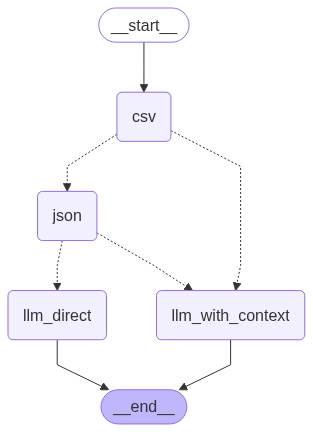
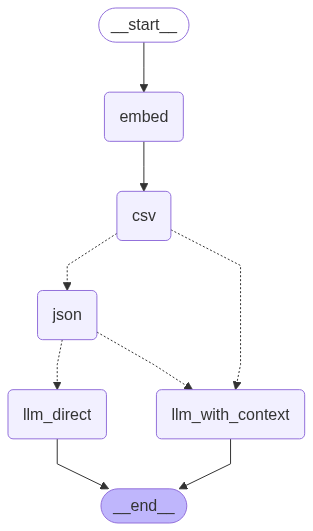
optimizing

diff --git a/frontend/src/services/api.js b/frontend/src/services/api.js
@@ -43,8 +43,8 @@
 import axios from "axios";
 
 const API = axios.create({
-  baseURL: "https://MustafaNoor-Medical-backend-api.hf.space",
-  // baseURL: "http://localhost:8000", 
+  // baseURL: "https://MustafaNoor-Medical-backend-api.hf.space",
+  baseURL: "http://localhost:8000", 
 });
 
 // Attach Authorization token

diff --git a/backend/app/services/csv_search.py b/backend/app/services/csv_search.py
@@ -6,6 +6,8 @@ from sklearn.metrics.pairwise import cosine_similarity
 from langchain.schema import Document
 from qdrant_client import QdrantClient
 import google.generativeai as genai
+import logging
+logger = logging.getLogger()
 
 # ---- PATH SETUP ---- #
 sys.path.append(os.path.abspath(os.path.join(os.path.dirname(__file__), "..", "..")))
@@ -23,14 +25,14 @@ qdrant_client = QdrantClient(
 )
 
 
-def embed_with_gemini(text: str) -> List[float]:
-    """Generate Gemini embeddings for a query."""
-    response = genai.embed_content(
-        model=EMBEDDING_MODEL,
-        content=text,
-        task_type="retrieval_query"
-    )
-    return response["embedding"]
+# def embed_with_gemini(text: str) -> List[float]:
+#     """Generate Gemini embeddings for a query."""
+#     response = genai.embed_content(
+#         model=EMBEDDING_MODEL,
+#         content=text,
+#         task_type="retrieval_query"
+#     )
+#     return response["embedding"]
 
 
 def list_available_csv_topics() -> List[str]:
@@ -39,7 +41,7 @@ def list_available_csv_topics() -> List[str]:
     return [col.name for col in collections if col.name.endswith(QDRANT_COLLECTION_SUFFIX)]
 
 
-def search_csv(topic: str, query: str, k: int = 3) -> Dict[str, Any]:
+def search_csv(topic: str, query: str, query_vector: np.ndarray, k: int = 3) -> Dict[str, Any]:
     topic = topic.strip() + "_csv"
     query_normalized = query.strip().lower()
 
@@ -47,16 +49,26 @@ def search_csv(topic: str, query: str, k: int = 3) -> Dict[str, Any]:
         print(f"\n🔍 [QDRANT CSV Search] Query: {query}")
         print(f"📘 Topic: {topic}")
 
-        # Embed query
-        query_vector = np.array(embed_with_gemini(query)).reshape(1, -1)
+        logger.info("query vector start")
+        # # Embed query
+        # query_vector = np.array(embed_with_gemini(query)).reshape(1, -1)
 
+        logger.info("query vector end------")
         # Fetch points from Qdrant
-        points = qdrant_client.scroll(
+        # points = qdrant_client.scroll(
+        #     collection_name=topic,
+        #     with_vectors=True,
+        #     with_payload=True,
+        #     limit=500
+        # )[0]
+
+        points = qdrant_client.search(
             collection_name=topic,
+            query_vector=query_vector[0],
+            limit=20,
             with_vectors=True,
-            with_payload=True,
-            limit=500
-        )[0]
+            with_payload=True
+        )
 
         vectors, payloads = [], []
         for p in points:
@@ -68,9 +80,12 @@ def search_csv(topic: str, query: str, k: int = 3) -> Dict[str, Any]:
             print("⚠ No vectors found.")
             return {"score": 0.0, "docs": []}
 
+        
         # Similarity
         vector_matrix = np.array(vectors)
+        logger.info("cosine similarirty")
         similarities = cosine_similarity(query_vector, vector_matrix)[0]
+        logger.info("simi end------")
         ranked = sorted(zip(payloads, similarities), key=lambda x: x[1], reverse=True)
 
         # Filter

diff --git a/backend/app/services/json_search.py b/backend/app/services/json_search.py
@@ -20,14 +20,14 @@ qdrant_client = QdrantClient(
 )
 
 
-def embed_with_gemini(text: str) -> List[float]:
-    """Embed a string using Gemini embeddings."""
-    response = genai.embed_content(
-        model=EMBEDDING_MODEL,
-        content=text,
-        task_type="retrieval_query"
-    )
-    return response["embedding"]
+# def embed_with_gemini(text: str) -> List[float]:
+#     """Embed a string using Gemini embeddings."""
+#     response = genai.embed_content(
+#         model=EMBEDDING_MODEL,
+#         content=text,
+#         task_type="retrieval_query"
+#     )
+#     return response["embedding"]
 
 
 def list_available_json_topics() -> List[str]:
@@ -36,21 +36,29 @@ def list_available_json_topics() -> List[str]:
     return [c.name for c in collections if not c.name.endswith("csv")]
 
 
-def search_json(topic: str, query: str, k: int = 3):
+def search_json(topic: str, query: str,query_vector: np.ndarray, k: int = 3):
     try:
         print(f"\n🔍 [QDRANT Search] Query: {query}")
         print(f"📘 Topic (Collection): {topic}")
 
         # Embed the query
-        query_vector = np.array(embed_with_gemini(query)).reshape(1, -1)
+        # query_vector = np.array(embed_with_gemini(query)).reshape(1, -1)
 
         # Fetch all vectors and payloads from the collection
-        points = qdrant_client.scroll(
+        # points = qdrant_client.scroll(
+        #     collection_name=topic,
+        #     with_vectors=True,
+        #     with_payload=True,
+        #     limit=500  # adjust based on size
+        # )[0]
+
+        points = qdrant_client.search(
             collection_name=topic,
+            query_vector=query_vector[0],
+            limit=20,
             with_vectors=True,
-            with_payload=True,
-            limit=500  # adjust based on size
-        )[0]
+            with_payload=True
+        )
 
         vectors = []
         payloads = []

diff --git a/backend/app/routes/voice.py b/backend/app/routes/voice.py
@@ -10,6 +10,9 @@ from app.database import get_db, AsyncSessionLocal
 from fastapi import BackgroundTasks
 import base64
 
+import logging
+logger = logging.getLogger()
+
 router = APIRouter(
     prefix="/voice",
     tags=["Voice"]
@@ -17,7 +20,9 @@ router = APIRouter(
 
 @router.post("/transcribe")
 async def transcribe_endpoint(audio: UploadFile, current_user=Depends(deps.get_current_user)):
+    logger.info("transcribing-------")
     user_input = await transcribe_audio(audio)
+    logger.info("transcribing endd-------")
     return {"user_input": user_input}
 
 
@@ -32,6 +37,7 @@ async def reply_endpoint(
     topic = payload["topic"]
     session_id = payload.get("session_id")
 
+    logger.info("reply started ----------")
     chatbot_text, new_session_id = await get_chatbot_reply(user_input, topic, db, current_user, session_id, background_tasks)
     return {
         "text": chatbot_text,
@@ -47,12 +53,14 @@ async def tts_endpoint(
     text = payload["text"]
     session_id = payload.get("session_id")
 
+    logger.info("tts startingggg....")
     audio_stream = generate_tts_audio(text)
 
     if session_id:
         # Do NOT pass `db` directly — create a fresh one in background task
         background_tasks.add_task(update_session_memory_safe, session_id)
 
+    logger.info("tts endinggg....")
     return StreamingResponse(audio_stream, media_type="audio/webm; codecs=opus")
 
 

diff --git a/backend/app/pipelines/nodes/embed_node.py b/backend/app/pipelines/nodes/embed_node.py
@@ -1,0 +1,33 @@
+from app.services.json_search import search_json
+from app.schemas.search_state import SearchState
+from typing import List
+import numpy as np
+import logging
+import google.generativeai as genai
+import sys
+import os
+logger = logging.getLogger()
+
+sys.path.append(os.path.abspath(os.path.join(os.path.dirname(__file__), "..", "..")))
+from app.config import settings
+
+# ---- CONFIG ---- #
+genai.configure(api_key=settings.Google_key)
+EMBEDDING_MODEL = "models/embedding-001"
+
+
+def embed_with_gemini(text: str) -> List[float]:
+    """Generate Gemini embeddings for a query."""
+    response = genai.embed_content(
+        model=EMBEDDING_MODEL,
+        content=text,
+        task_type="retrieval_query"
+    )
+    return response["embedding"]
+
+def embed_node(state: SearchState) -> SearchState:
+    logger.info("DEBUG: Embedding query...")
+    embedding = np.array(embed_with_gemini(state.query)).reshape(1, -1)
+    state.query_vector = embedding
+    logger.info("DEBUG: Embedding query... made")
+    return state

diff --git a/backend/app/pipelines/builder.py b/backend/app/pipelines/builder.py
@@ -4,17 +4,21 @@ from app.pipelines.nodes.csv_node import csv_node
 from app.pipelines.nodes.json_node import json_node
 from app.pipelines.nodes.llm_node import llm_with_context_node, llm_direct_node
 from app.pipelines.conditions import check_csv_score, check_json_score
+from app.pipelines.nodes.embed_node import embed_node
 
 def build_graph():
     print("DEBUG: Building LangGraph pipeline...")
     builder = StateGraph(SearchState)
 
+    builder.add_node("embed", embed_node)
     builder.add_node("csv", csv_node)
     builder.add_node("json", json_node)
     builder.add_node("llm_with_context", llm_with_context_node)
     builder.add_node("llm_direct", llm_direct_node)
 
-    builder.set_entry_point("csv")
+    builder.set_entry_point("embed")
+
+    builder.add_edge("embed", "csv")
 
     builder.add_conditional_edges("csv", check_csv_score, {
         "llm_with_context": "llm_with_context",

diff --git a/backend/app/pipelines/nodes/llm_node.py b/backend/app/pipelines/nodes/llm_node.py
@@ -1,5 +1,7 @@
 from app.services.llm_context import generate_response
 from app.schemas.search_state import SearchState
+import logging
+logger = logging.getLogger()
 
 def llm_with_context_node(state: SearchState) -> SearchState:
     print("DEBUG: Entered llm_with_context_node")
@@ -24,7 +26,9 @@ def llm_with_context_node(state: SearchState) -> SearchState:
     print("DEBUG: Knowledge Context Length =", len(knowledge_context))
     print("DEBUG: Memory Context Length =", len(memory_context))
 
+    logger.info("generating start=-------")
     state.final_answer = generate_response(state.query, knowledge_context, memory_context, state.topic)
+    logger.info("generating end=-------")
     print("DEBUG: Final Answer =", state.final_answer[:100])
     return state
 

diff --git a/backend/app/schemas/search_state.py b/backend/app/schemas/search_state.py
@@ -1,6 +1,8 @@
-from pydantic import BaseModel
+from pydantic import BaseModel, ConfigDict
 from typing import List, Optional
-from langchain_core.documents import Document  # or your own Document class
+from langchain_core.documents import Document 
+from typing import Optional
+import numpy as np # or your own Document class
 
 class SearchState(BaseModel):
     query: str
@@ -12,3 +14,6 @@ class SearchState(BaseModel):
     topic: str  # <-- Add this
     source: Optional[str] = "llm"
     memory: Optional[str] = ""
+    query_vector: Optional[np.ndarray] = None
+
+    model_config = ConfigDict(arbitrary_types_allowed=True)

diff --git a/backend/app/pipelines/graph.py b/backend/app/pipelines/graph.py
@@ -1,6 +1,9 @@
 from app.pipelines.builder import build_graph
 from app.schemas.search_state import SearchState
 
+import logging
+logger = logging.getLogger()
+
 app_graph = build_graph()
 
 def run_pipeline(query: str, topic: str, memory: str) -> dict:
@@ -8,6 +11,7 @@ def run_pipeline(query: str, topic: str, memory: str) -> dict:
     print("🧵 Initial SearchState:\n", initial_state.dict())
     print("🧠 Memory passed into initial state:\n", memory)
 
+    logger.info("graph starting----")
     final_state = app_graph.invoke(initial_state)
 
     if isinstance(final_state, dict):

diff --git a/backend/app/pipelines/nodes/csv_node.py b/backend/app/pipelines/nodes/csv_node.py
@@ -1,10 +1,14 @@
 from app.services.csv_search import search_csv
 from app.schemas.search_state import SearchState
+import logging
+logger = logging.getLogger()
 
 def csv_node(state: SearchState) -> SearchState:
     print("DEBUG: Entered csv_node")
-    result = search_csv(state.topic, state.query)
+    logger.info("CSv Starting")
+    result = search_csv(state.topic, state.query, state.query_vector)
     print("DEBUG: CSV Result =", result)
+    logger.info("CSV DONe")
     state.csv_score = result["score"]
     state.csv_docs = result["docs"]
     return state

diff --git a/backend/app/pipelines/nodes/json_node.py b/backend/app/pipelines/nodes/json_node.py
@@ -1,9 +1,14 @@
 from app.services.json_search import search_json
 from app.schemas.search_state import SearchState
 
+import logging
+logger = logging.getLogger()
+
 def json_node(state: SearchState) -> SearchState:
     print("DEBUG: Entered json_node")
-    result = search_json(state.topic, state.query)
+    logger.info("json Starting")
+    result = search_json(state.topic, state.query, state.query_vector)
+    logger.info("json ending")
     print("DEBUG: JSON Result =", result)
     state.json_score = result["score"]
     state.json_docs = result["docs"]

diff --git a/backend/app/routes/chat.py b/backend/app/routes/chat.py
@@ -12,6 +12,8 @@ from app.services.suggestions import get_csv_suggestions
 from sqlalchemy import delete
 from typing import List
 from fastapi import BackgroundTasks
+import logging
+logger = logging.getLogger()
 
 
 router = APIRouter(
@@ -27,6 +29,7 @@ async def send_message(
     db: AsyncSession = Depends(get_db),
     current_user=Depends(deps.get_current_user),
 ):
+    logger.info("Called function-")
     return await handle_chat(request, db, current_user, background_tasks)
 
 
